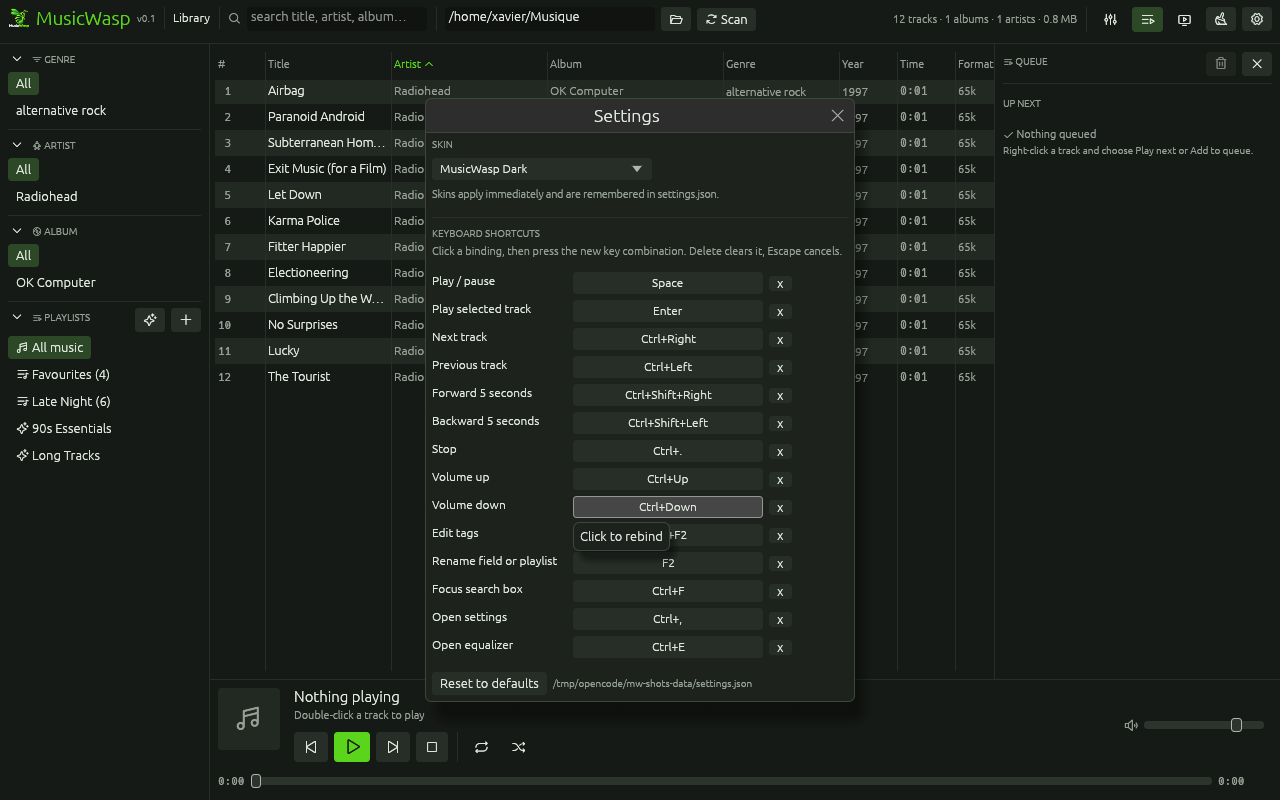
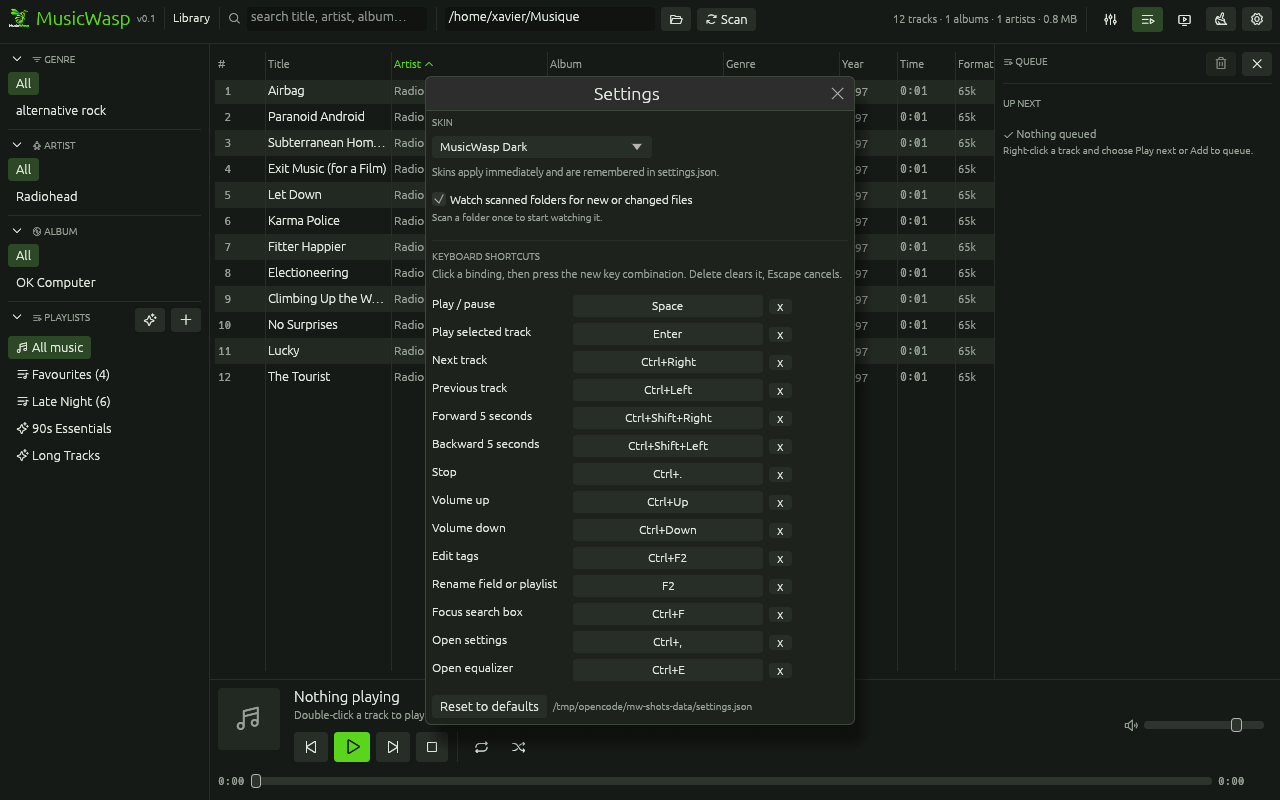
Folder watching, auto-import new files

diff --git a/gui/src/app.rs b/gui/src/app.rs
@@ -4,8 +4,9 @@ use musicwasp_core::dsp::Equalizer;
 use musicwasp_core::smart::{Definition, Field, Op, Rule, SmartPlaylist};
 use musicwasp_core::Playlist;
 use musicwasp_core::{Filter, Library, Player, SortKey, TagEdit, Track};
+use notify::Watcher as _;
 use std::collections::BTreeSet;
-use std::path::PathBuf;
+use std::path::{Path, PathBuf};
 use std::sync::mpsc::{self, Receiver, Sender};
 
 #[derive(Debug, Clone, Copy, PartialEq, Eq)]
@@ -607,6 +608,13 @@ pub struct App {
     pub autotag: Option<AutoTagState>,
     pub show_hygiene: bool,
     pub hygiene: Option<HygieneState>,
+    /// OS watcher for scanned folders; `None` when disabled or idle.
+    watcher: Option<notify::RecommendedWatcher>,
+    watch_rx: Option<Receiver<PathBuf>>,
+    watch_pending: BTreeSet<PathBuf>,
+    watch_deadline: Option<std::time::Instant>,
+    watch_dirty: bool,
+    watched_folders: Vec<PathBuf>,
     dirty_browser: bool,
     dirty_tracks: bool,
 
@@ -714,6 +722,12 @@ impl App {
             autotag: None,
             show_hygiene: false,
             hygiene: None,
+            watcher: None,
+            watch_rx: None,
+            watch_pending: BTreeSet::new(),
+            watch_deadline: None,
+            watch_dirty: false,
+            watched_folders: Vec::new(),
             dirty_browser: true,
             dirty_tracks: true,
             settings,
@@ -741,6 +755,9 @@ impl App {
         app.refresh_brand_icon(&cc.egui_ctx);
         if let Some(player) = &app.player {
             player.set_equalizer(app.settings.equalizer);
+        }
+        if app.session_enabled {
+            app.restart_watcher(&cc.egui_ctx);
         }
         app
     }
@@ -1268,6 +1285,172 @@ impl App {
         }
     }
 
+    // ---- folder watching ----
+
+    /// Enable or disable automatic imports from the watched folders.
+    pub fn set_watch_enabled(&mut self, enabled: bool) {
+        if self.settings.watch_enabled == enabled {
+            return;
+        }
+        self.settings.watch_enabled = enabled;
+        self.watch_dirty = true;
+        self.persist_settings();
+    }
+
+    /// Stop watching every remembered folder.
+    pub fn forget_watch_folders(&mut self) {
+        if self.settings.watch_folders.is_empty() {
+            return;
+        }
+        self.settings.watch_folders.clear();
+        self.watch_dirty = true;
+        self.persist_settings();
+    }
+
+    /// Remember a folder the user scanned, so it is watched after a restart.
+    fn remember_watch_folder(&mut self, path: &Path) {
+        let folder = path.canonicalize().unwrap_or_else(|_| path.to_path_buf());
+        if !folder.is_dir() {
+            return;
+        }
+        let entry = folder.to_string_lossy().to_string();
+        if self.settings.watch_folders.contains(&entry) {
+            return;
+        }
+        self.settings.watch_folders.push(entry);
+        self.persist_settings();
+        self.watch_dirty = true;
+    }
+
+    /// (Re)build the OS watcher. Dropping the old watcher stops its events.
+    fn restart_watcher(&mut self, ctx: &egui::Context) {
+        self.watcher = None;
+        self.watch_rx = None;
+        self.watch_pending.clear();
+        self.watch_deadline = None;
+        self.watched_folders.clear();
+
+        if !self.settings.watch_enabled || !self.session_enabled {
+            return;
+        }
+        let folders: Vec<PathBuf> = self
+            .settings
+            .watch_folders
+            .iter()
+            .map(PathBuf::from)
+            .filter(|path| path.is_dir())
+            .collect();
+        if folders.is_empty() {
+            return;
+        }
+
+        let (tx, rx) = mpsc::channel::<PathBuf>();
+        let repaint = ctx.clone();
+        let watcher = notify::recommended_watcher(move |event: notify::Result<notify::Event>| {
+            let Ok(event) = event else { return };
+            if !matches!(
+                event.kind,
+                notify::EventKind::Create(_)
+                    | notify::EventKind::Modify(_)
+                    | notify::EventKind::Any
+            ) {
+                return;
+            }
+            for path in event.paths {
+                if tx.send(path).is_err() {
+                    break;
+                }
+            }
+            repaint.request_repaint();
+        });
+
+        match watcher {
+            Ok(mut watcher) => {
+                let mut watched = Vec::new();
+                for folder in folders {
+                    match watcher.watch(&folder, notify::RecursiveMode::Recursive) {
+                        Ok(()) => watched.push(folder),
+                        Err(e) => {
+                            self.message =
+                                format!("watcher: cannot watch {}: {e}", folder.display());
+                        }
+                    }
+                }
+                self.watcher = Some(watcher);
+                self.watch_rx = Some(rx);
+                self.watched_folders = watched;
+            }
+            Err(e) => self.message = format!("watcher could not start: {e}"),
+        }
+    }
+
+    /// Drain watcher events and run a debounced batch once the filesystem has
+    /// settled. Metadata writes can emit several events for one file.
+    fn poll_watcher(&mut self, ctx: &egui::Context) {
+        if self.watch_rx.is_none() {
+            return;
+        }
+        let mut received = Vec::new();
+        let mut disconnected = false;
+        if let Some(rx) = &self.watch_rx {
+            loop {
+                match rx.try_recv() {
+                    Ok(path) => received.push(path),
+                    Err(std::sync::mpsc::TryRecvError::Empty) => break,
+                    Err(std::sync::mpsc::TryRecvError::Disconnected) => {
+                        disconnected = true;
+                        break;
+                    }
+                }
+            }
+        }
+        if disconnected {
+            self.watch_rx = None;
+        }
+        if !received.is_empty() {
+            for path in received {
+                self.watch_pending.insert(path);
+            }
+            self.watch_deadline =
+                Some(std::time::Instant::now() + std::time::Duration::from_millis(700));
+        }
+        if let Some(deadline) = self.watch_deadline {
+            let now = std::time::Instant::now();
+            if now >= deadline {
+                self.watch_deadline = None;
+                self.apply_watched_paths();
+            } else {
+                ctx.request_repaint_after(deadline - now);
+            }
+        }
+    }
+
+    /// Import new files and refresh tags for modified ones. `import_paths`
+    /// upserts on the unique path, so repeated events never duplicate rows.
+    fn apply_watched_paths(&mut self) {
+        let pending = std::mem::take(&mut self.watch_pending);
+        if pending.is_empty() {
+            return;
+        }
+        let paths: Vec<PathBuf> = pending
+            .into_iter()
+            .filter(|path| {
+                path.is_dir() || (path.is_file() && musicwasp_core::library::is_audio_path(path))
+            })
+            .collect();
+        if paths.is_empty() {
+            return;
+        }
+        match self.lib.import_paths(&paths) {
+            Ok(indexed) if !indexed.is_empty() => {
+                self.mark_browser_dirty();
+                self.message = format!("watcher refreshed {} track(s)", indexed.len());
+            }
+            Ok(_) => {}
+            Err(e) => self.message = format!("watcher import failed: {e}"),
+        }
+    }
+
     // ---- playback ----
 
     fn play_loaded(&mut self) {
@@ -1764,6 +1947,11 @@ impl App {
                 return;
             }
         };
+        for path in &paths {
+            if path.is_dir() {
+                self.remember_watch_folder(path);
+            }
+        }
 
         let mut ids = Vec::new();
         for path in &indexed {
@@ -2205,6 +2393,7 @@ impl App {
         match self.lib.scan(&path, false) {
             Ok(n) => {
                 self.message = format!("indexed {n} tracks from {}", path.display());
+                self.remember_watch_folder(&path);
                 self.mark_browser_dirty();
             }
             Err(e) => self.message = format!("scan failed: {e}"),
@@ -2216,6 +2405,11 @@ impl eframe::App for App {
     fn ui(&mut self, root: &mut egui::Ui, _frame: &mut eframe::Frame) {
         let ctx = root.ctx().clone();
         self.capture_window(&ctx);
+        if self.watch_dirty {
+            self.restart_watcher(&ctx);
+            self.watch_dirty = false;
+        }
+        self.poll_watcher(&ctx);
         self.poll_autotag();
         self.handle_capture(&ctx);
         self.handle_shortcuts(&ctx);

diff --git a/gui/src/settings.rs b/gui/src/settings.rs
@@ -221,9 +221,19 @@ pub struct Settings {
     /// Show the play-queue panel on the right.
     #[serde(default = "default_queue_open")]
     pub queue_open: bool,
+    /// Watch scanned folders and import new or changed audio automatically.
+    #[serde(default = "default_watch_enabled")]
+    pub watch_enabled: bool,
+    /// Folders handed to the OS watcher. Added by a successful scan.
+    #[serde(default)]
+    pub watch_folders: Vec<String>,
     /// What the app looked and sounded like when it last closed.
     #[serde(default)]
     pub session: Session,
+}
+
+fn default_watch_enabled() -> bool {
+    true
 }
 
 /// The view that was open when the app last closed.
@@ -278,6 +288,8 @@ impl Default for Settings {
             skin: Skin::default(),
             folded: FoldedSections::default(),
             queue_open: default_queue_open(),
+            watch_enabled: default_watch_enabled(),
+            watch_folders: Vec::new(),
             session: Session::default(),
         }
     }
@@ -507,6 +519,8 @@ mod tests {
         let path = dir.path().join("settings.json");
 
         let settings = Settings {
+            watch_enabled: false,
+            watch_folders: vec!["/music".to_string()],
             session: Session {
                 view: SessionView::Playlist(7),
                 search: "radio".to_string(),
@@ -527,6 +541,8 @@ mod tests {
 
         let loaded = Settings::load(&path);
         assert_eq!(loaded.session, settings.session);
+        assert!(!loaded.watch_enabled);
+        assert_eq!(loaded.watch_folders, vec!["/music".to_string()]);
     }
 
     #[test]
@@ -559,5 +575,7 @@ mod tests {
         assert_eq!(loaded.skin, crate::theme::Skin::default());
         assert_eq!(loaded.shortcut(Action::PlayPause).unwrap().token(), "space");
         assert_eq!(loaded.session, Session::default());
+        assert!(loaded.watch_enabled);
+        assert!(loaded.watch_folders.is_empty());
     }
 }

diff --git a/gui/src/ui.rs b/gui/src/ui.rs
@@ -2407,6 +2407,49 @@ pub fn settings_window(app: &mut App, ctx: &egui::Context) {
                     .color(th::text_dim()),
             );
 
+            ui.add_space(8.0);
+            let mut watching = app.settings.watch_enabled;
+            if ui
+                .checkbox(
+                    &mut watching,
+                    RichText::new("Watch scanned folders for new or changed files").size(11.5),
+                )
+                .on_hover_text(
+                    "New audio files are imported automatically and tag edits refresh existing \
+                     rows. Manual Scan still works.",
+                )
+                .changed()
+            {
+                app.set_watch_enabled(watching);
+            }
+            if app.settings.watch_folders.is_empty() {
+                ui.label(
+                    RichText::new("Scan a folder once to start watching it.")
+                        .size(10.0)
+                        .color(th::text_dim()),
+                );
+            } else {
+                let folders = app.settings.watch_folders.join("\n");
+                ui.horizontal(|ui| {
+                    ui.label(
+                        RichText::new(format!(
+                            "{} watched folder(s)",
+                            app.settings.watch_folders.len()
+                        ))
+                        .size(10.0)
+                        .color(th::text_dim()),
+                    )
+                    .on_hover_text(folders);
+                    if ui
+                        .small_button("Forget")
+                        .on_hover_text("Stop watching these folders")
+                        .clicked()
+                    {
+                        app.forget_watch_folders();
+                    }
+                });
+            }
+
             ui.add_space(10.0);
             ui.separator();
             ui.add_space(4.0);

diff --git a/README.md b/README.md
@@ -32,6 +32,7 @@ This is an early but working clone, not a finished product. What runs today:
 | Skins | five palettes (MusicWasp Dark, Midnight, Forest, Mono, MusicWasp Light), picked from a dropdown in Settings; light mode also swaps the logo |
 | Settings | rebindable keyboard shortcuts with conflict detection, persisted to `settings.json` |
 | Library hygiene | find rows whose files vanished, detect duplicate artist/title/album groups, and remove entries from the library in bulk; audio files are never deleted |
+| Folder watching | scanned folders are watched with `notify`: new audio is imported automatically and external tag edits refresh existing rows; manual **Scan** still works |
 | Session restore | reopens the last view, search, selection, volume, play queue and window size/position; playback always starts stopped |
 | Portability | `MUSICWASP_DATA_DIR` for a portable library, data lives in the OS app-data dir by default |
 
@@ -135,6 +136,9 @@ entry uses the app icon.
     but the first in each group**) and confirm **Remove from library**. Only database entries are
     deleted: audio files stay on disk, and playlist entries disappear with the removed rows. Files
     can be re-imported at any time.
+16. A successful **Scan** also watches that folder. New audio files are imported automatically and
+    tag changes made in another editor refresh their library rows. Toggle watching in **Settings**.
+    Renames and deletions are not auto-pruned; **Library hygiene** reports those rows.
 
 ### Default shortcuts
 
